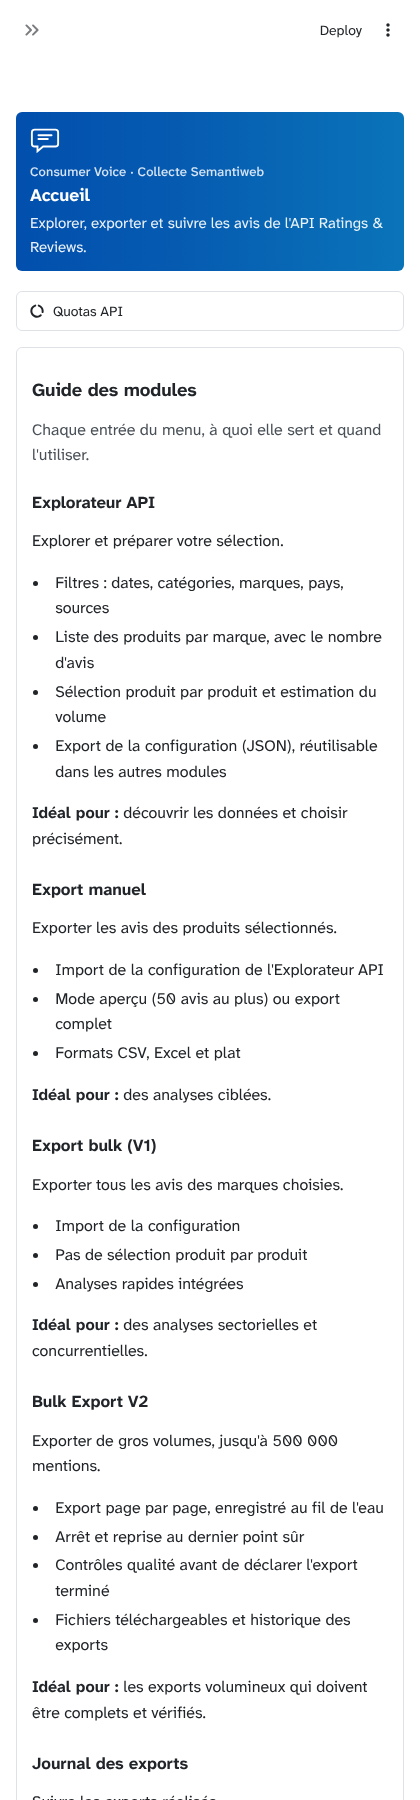
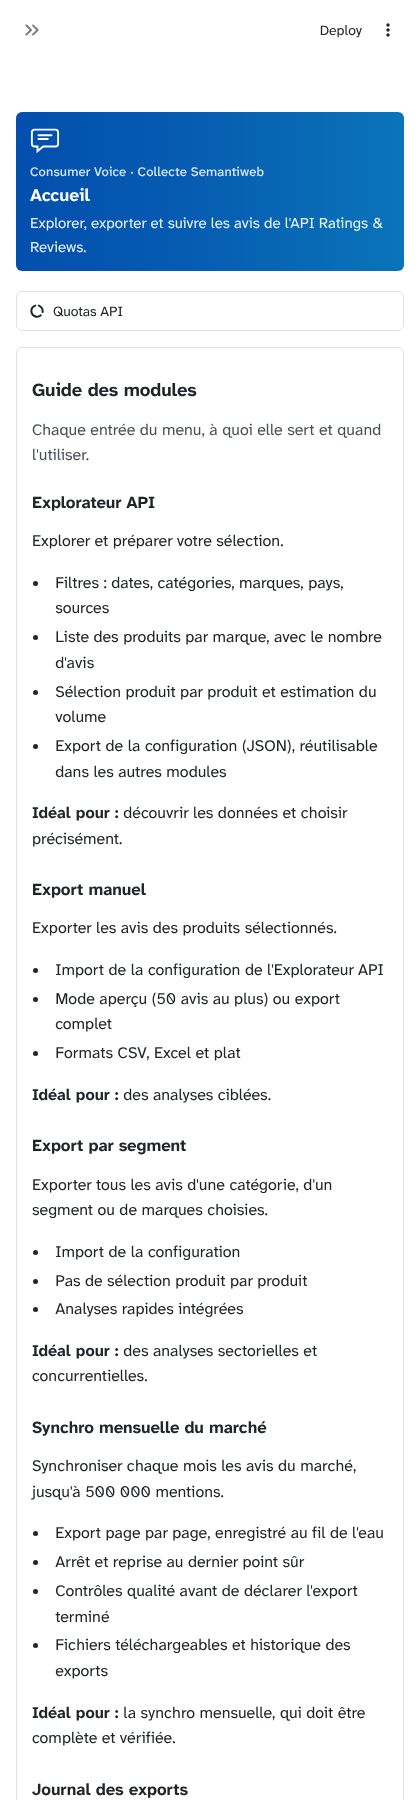
Noms des pages : « Export par segment » et « Synchro mensuelle du marché »
Les entrées « Export bulk (V1) » et « Bulk Export V2 » prennent le nom de leur usage :
export par catégorie / segment / marque, et synchro mensuelle du marché. Bandeau, accueil,
recommandations et messages suivent. Seuls les libellés changent (fichiers, paquet et schéma
bulk_export inchangés ; module 3 non modifié). Espace insécable dans « 500 000 ».
Captures et JOURNAL mis à jour ; 320 tests verts.

Claude-Session: https://claude.ai/code/session_01XDoqtqASyHcMsefX2ftpn5

Changed region(s): [[0.0619, 0.6222, 0.8976, 1.0], [0.0619, 0.6844, 0.0929, 0.7156]]

diff --git a/main_app.py b/main_app.py
@@ -47,15 +47,16 @@ def _charger_modules():
 ACCUEIL = "Accueil"
 EXPLORATEUR = "Explorateur API"
 EXPORT_MANUEL = "Export manuel"
-EXPORT_BULK_V1 = "Export bulk (V1)"
-BULK_V2 = "Bulk Export V2"
+EXPORT_SEGMENT = "Export par segment"           # module 3 (ancien « Export bulk »)
+SYNCHRO_MARCHE = "Synchro mensuelle du marché"  # module 4 (« Bulk Export V2 » dans le code et la doc)
 JOURNAL = "Journal des exports"
 MODULES = {
     ACCUEIL: ("Explorer, exporter et suivre les avis de l'API Ratings & Reviews.", "home"),
     EXPLORATEUR: ("Filtrer, choisir les produits et estimer le volume avant un export.", "search"),
     EXPORT_MANUEL: ("Exporter les avis des produits sélectionnés, en aperçu ou en entier.", "checklist"),
-    EXPORT_BULK_V1: (None, "inventory_2"),
-    BULK_V2: ("Export traçable, reprenable et vérifiable, jusqu'à 500 000 mentions.", "database"),
+    EXPORT_SEGMENT: (None, "inventory_2"),
+    SYNCHRO_MARCHE: ("Export mensuel du marché : traçable, reprenable et vérifiable, jusqu'à 500 000 mentions.",
+                     "calendar_month"),
     JOURNAL: ("Historique des exports réalisés depuis cette application.", "history"),
 }
 
@@ -103,9 +104,9 @@ def display_module_descriptions():
             """)
 
         with col3:
-            st.subheader(EXPORT_BULK_V1, anchor=False)
+            st.subheader(EXPORT_SEGMENT, anchor=False)
             st.markdown("""
-            Exporter tous les avis des marques choisies.
+            Exporter tous les avis d'une catégorie, d'un segment ou de marques choisies.
             - Import de la configuration
             - Pas de sélection produit par produit
             - Analyses rapides intégrées
@@ -116,15 +117,15 @@ def display_module_descriptions():
         col4, col5, _ = st.columns(3)
 
         with col4:
-            st.subheader(BULK_V2, anchor=False)
+            st.subheader(SYNCHRO_MARCHE, anchor=False)
             st.markdown("""
-            Exporter de gros volumes, jusqu'à 500 000 mentions.
+            Synchroniser chaque mois les avis du marché, jusqu'à 500 000 mentions.
             - Export page par page, enregistré au fil de l'eau
             - Arrêt et reprise au dernier point sûr
             - Contrôles qualité avant de déclarer l'export terminé
             - Fichiers téléchargeables et historique des exports
 
-            **Idéal pour :** les exports volumineux qui doivent être complets et vérifiés.
+            **Idéal pour :** la synchro mensuelle, qui doit être complète et vérifiée.
             """)
 
         with col5:
@@ -147,8 +148,9 @@ def display_workflow_guide():
            puis exportez la configuration JSON.
         2. **Exporter**, selon le besoin :
            - **{EXPORT_MANUEL}** : importez la configuration, testez avec un aperçu, puis lancez l'export complet ;
-           - **{EXPORT_BULK_V1}** : importez la configuration et exportez tous les avis des marques choisies ;
-           - **{BULK_V2}** : pour les gros volumes, avec reprise après arrêt et contrôles qualité.
+           - **{EXPORT_SEGMENT}** : importez la configuration et exportez tous les avis d'une catégorie,
+             d'un segment ou des marques choisies ;
+           - **{SYNCHRO_MARCHE}** : l'export mensuel du marché, avec reprise après arrêt et contrôles qualité.
         3. **Suivre** ({JOURNAL}) : retrouvez l'historique de vos exports.
 
         Conseils : utilisez les aperçus avant les exports complets, sauvegardez vos configurations
@@ -190,7 +192,7 @@ def main():
 
     # Titre de la page : le bandeau, sauf pour le module 3 qui garde son propre titre.
     sous_titre = MODULES[module_choice][0]
-    if module_choice != EXPORT_BULK_V1:
+    if module_choice != EXPORT_SEGMENT:
         bandeau(APPLI, module_choice, sous_titre=sous_titre)
 
     # Affichage des quotas en tête
@@ -203,14 +205,14 @@ def main():
     elif module_choice == EXPORT_MANUEL:
         module2_manual_export.main()
 
-    elif module_choice == EXPORT_BULK_V1:
+    elif module_choice == EXPORT_SEGMENT:
         module3_bulk_export.main()
 
-    elif module_choice == BULK_V2:
+    elif module_choice == SYNCHRO_MARCHE:
         if bulk_v2_available:
             module4_bulk_export_v2.main()
         else:
-            st.error(f"Bulk Export V2 indisponible ({type(bulk_v2_error).__name__}). Les autres modules "
+            st.error(f"{SYNCHRO_MARCHE} indisponible ({type(bulk_v2_error).__name__}). Les autres modules "
                      "fonctionnent ; vérifiez l'installation de l'application, puis rechargez la page.",
                      icon=":material/error:")
 

diff --git a/tests/test_app_smoke.py b/tests/test_app_smoke.py
@@ -2,7 +2,7 @@
 
 - Bulk Export V2 sans Supabase : message clair, pas de plantage.
 - Bulk Export V2 avec la base de test : le Monitor affiche un export et ses événements.
-- Application principale : l'accueil, les 4 entrées d'origine et Bulk Export V2 se chargent.
+- Application principale : l'accueil, les 4 entrées d'origine et la Synchro mensuelle du marché se chargent.
 """
 
 import json
@@ -131,7 +131,8 @@ def test_application_principale_toutes_les_entrees():
     assert not at.exception, at.exception
     nav = at.sidebar.radio[0]
     assert [o.split(": ", 1)[1] for o in nav.options] == ["Accueil", "Explorateur API", "Export manuel",
-                                                           "Export bulk (V1)", "Bulk Export V2", "Journal des exports"]
+                                                           "Export par segment", "Synchro mensuelle du marché",
+                                                           "Journal des exports"]
     for option in nav.options:
         at.sidebar.radio[0].set_value(option).run()
         assert not at.exception, (option, at.exception)

diff --git a/utils.py b/utils.py
@@ -558,7 +558,7 @@ def display_export_journal():
     log_path = Path("review_exports_log.csv")
     
     if not log_path.exists():
-        vide("Aucun export n'a encore été réalisé. Lancez un export depuis l'Export manuel ou l'Export bulk (V1).")
+        vide("Aucun export n'a encore été réalisé. Lancez un export depuis l'Export manuel ou l'Export par segment.")
         return
     
     try:
@@ -566,7 +566,7 @@ def display_export_journal():
         df_log = pd.read_csv(log_path)
         
         if df_log.empty:
-            vide("Le journal des exports est vide. Lancez un export depuis l'Export manuel ou l'Export bulk (V1).")
+            vide("Le journal des exports est vide. Lancez un export depuis l'Export manuel ou l'Export par segment.")
             return
         
         # Convertir les dates

diff --git a/tests/test_auth.py b/tests/test_auth.py
@@ -92,7 +92,7 @@ def test_t3_bon_mot_de_passe_puis_t5_rafraichissement(monkeypatch):
     monkeypatch.setattr(requests, "get", lambda *a, **k: R())
     at = login(app().run(), FAKE_PASSWORD)
     assert not at.exception, at.exception
-    assert len(at.sidebar.radio) == 1 and ":material/database: Bulk Export V2" in at.sidebar.radio[0].options  # T3
+    assert len(at.sidebar.radio) == 1 and ":material/calendar_month: Synchro mensuelle du marché" in at.sidebar.radio[0].options  # T3
     assert "mot_de_passe_saisi" not in at.session_state  # S4 : saisie effacée
     fresh = app().run()  # T5 : nouvelle session (rafraîchissement) → mot de passe redemandé
     assert [t.value for t in fresh.title] == ["Accès protégé"]

diff --git a/module1_explorer.py b/module1_explorer.py
@@ -637,7 +637,7 @@ def display_export_configuration():
         # Recommandation de module
         strategy = st.session_state.get("export_strategy", "")
         if strategy == STRATEGIE_MASSE:
-            encadre_cle("Utilisez l'Export bulk (V1) pour cette configuration.", titre="Recommandation")
+            encadre_cle("Utilisez l'Export par segment pour cette configuration.", titre="Recommandation")
         else:
             encadre_cle("Utilisez l'Export manuel pour cette configuration.", titre="Recommandation")
 

diff --git a/module4_bulk_export_v2.py b/module4_bulk_export_v2.py
@@ -105,7 +105,7 @@ def _filters_form() -> dict[str, str]:
 
 
 def _import_block() -> dict[str, str] | None:
-    text = st.text_area("Collez une configuration JSON (Bulk Export V2, ou ancien format des modules 1 à 3)",
+    text = st.text_area("Collez une configuration JSON (Synchro mensuelle, ou ancien format des autres modules)",
                         height=160, key="bv2_import_text")
     if st.button("Charger la configuration", key="bv2_import_btn", icon=":material/upload_file:"):
         try:

diff --git a/tests/test_legacy_pandas.py b/tests/test_legacy_pandas.py
@@ -31,7 +31,7 @@ def no_network(monkeypatch):
     monkeypatch.setattr(requests, "get", lambda *a, **k: R())
 
 
-@pytest.mark.parametrize("module", ["Export bulk (V1)", "Export manuel"])
+@pytest.mark.parametrize("module", ["Export par segment", "Export manuel"])
 def test_affichage_des_resultats_legacy(module):
     at = AppTest.from_file(str(REPO / "main_app.py"), default_timeout=60)
     at.secrets["api"] = {"token": "FAKE_token_legacy_123456"}

diff --git a/docs/bulk_v2/JOURNAL.md b/docs/bulk_v2/JOURNAL.md
@@ -644,3 +644,11 @@ Référence : `docs/charte/DESIGN_GUIDE.md` et `docs/charte/SPRINT_charte.md`. S
 - Le module 3 garde ses emojis tant que sa modification n'est pas autorisée.
 
 `pytest` : **320 réussis** (307 + 11 tests de la charte + 2 tests des corrections), base Postgres 16 locale comprise.
+
+### Noms des pages (22/10/2026, décision de l'utilisateur)
+Noms affichés alignés sur l'usage de chaque page :
+- module 3 (« Export bulk », V1) → **Export par segment** : catégories, segments, marques ;
+- module 4 (« Bulk Export V2 ») → **Synchro mensuelle du marché**.
+Seuls les libellés à l'écran changent : les fichiers, le paquet `bulk_export`, le schéma `bulk_export` et la
+documentation gardent le nom « Bulk Export V2 ». Le module 3 étant non modifiable, son propre titre
+(« Module 3 - Export Bulk ») ne change pas.
